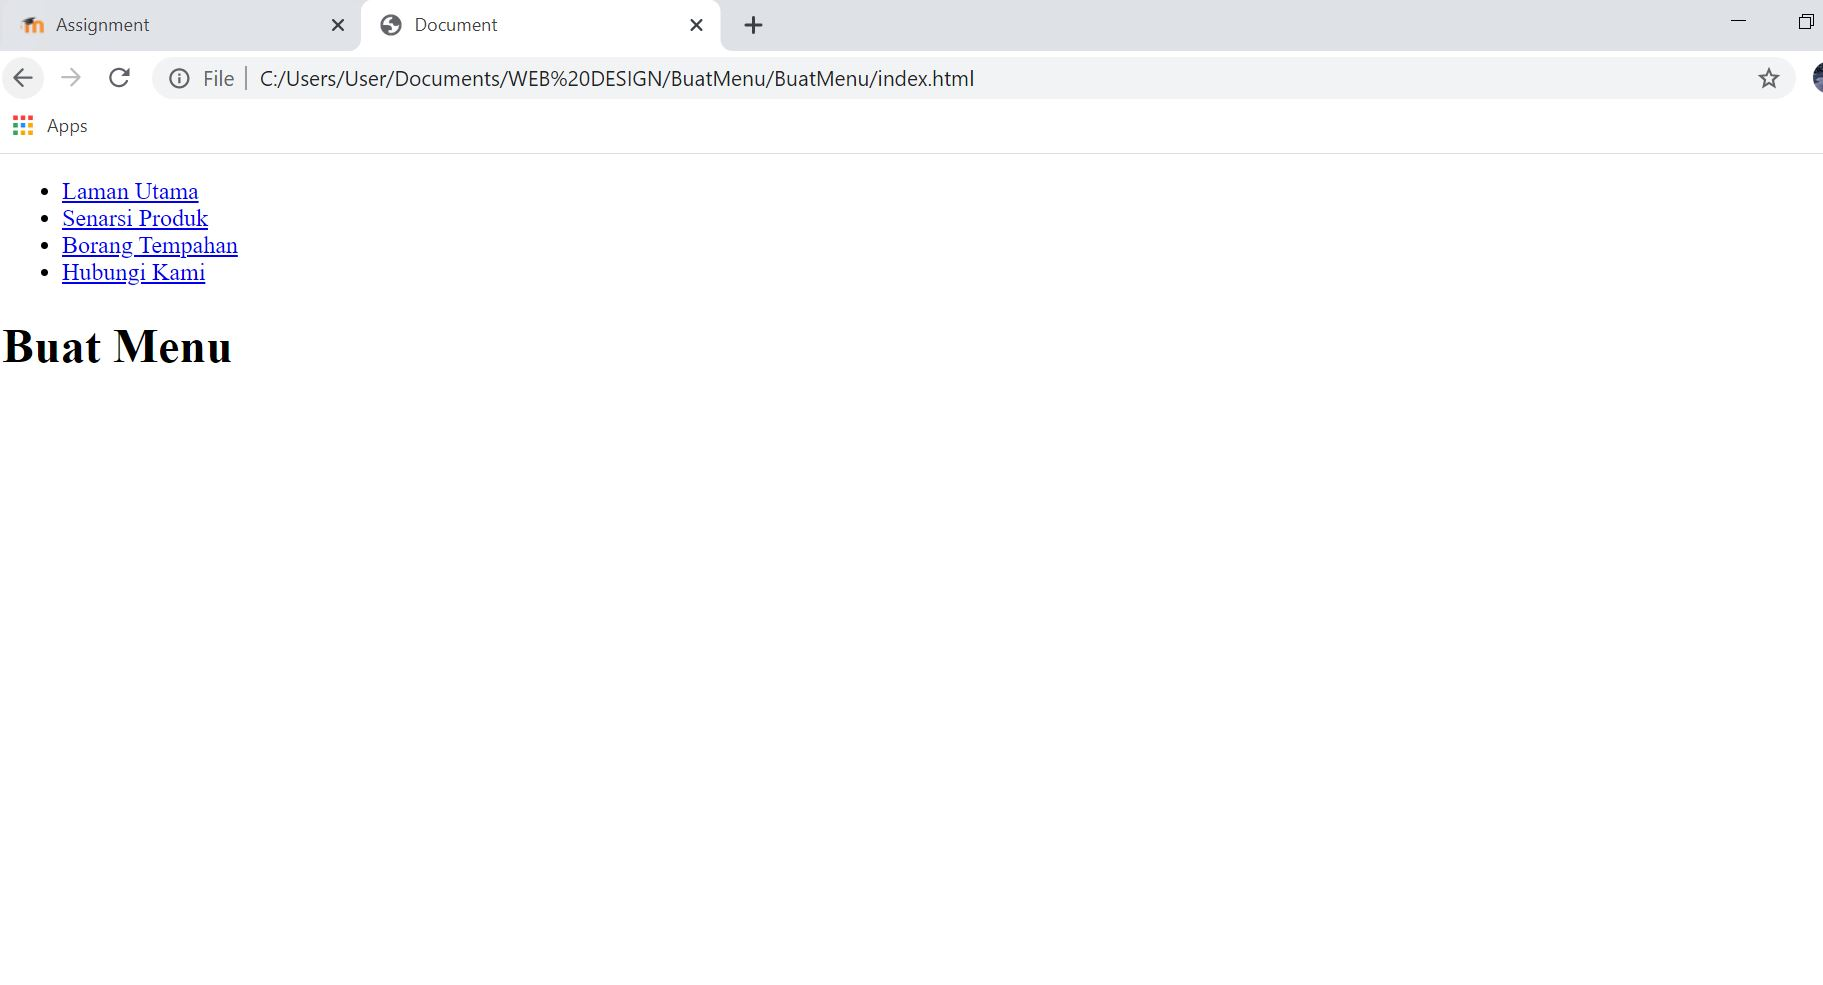
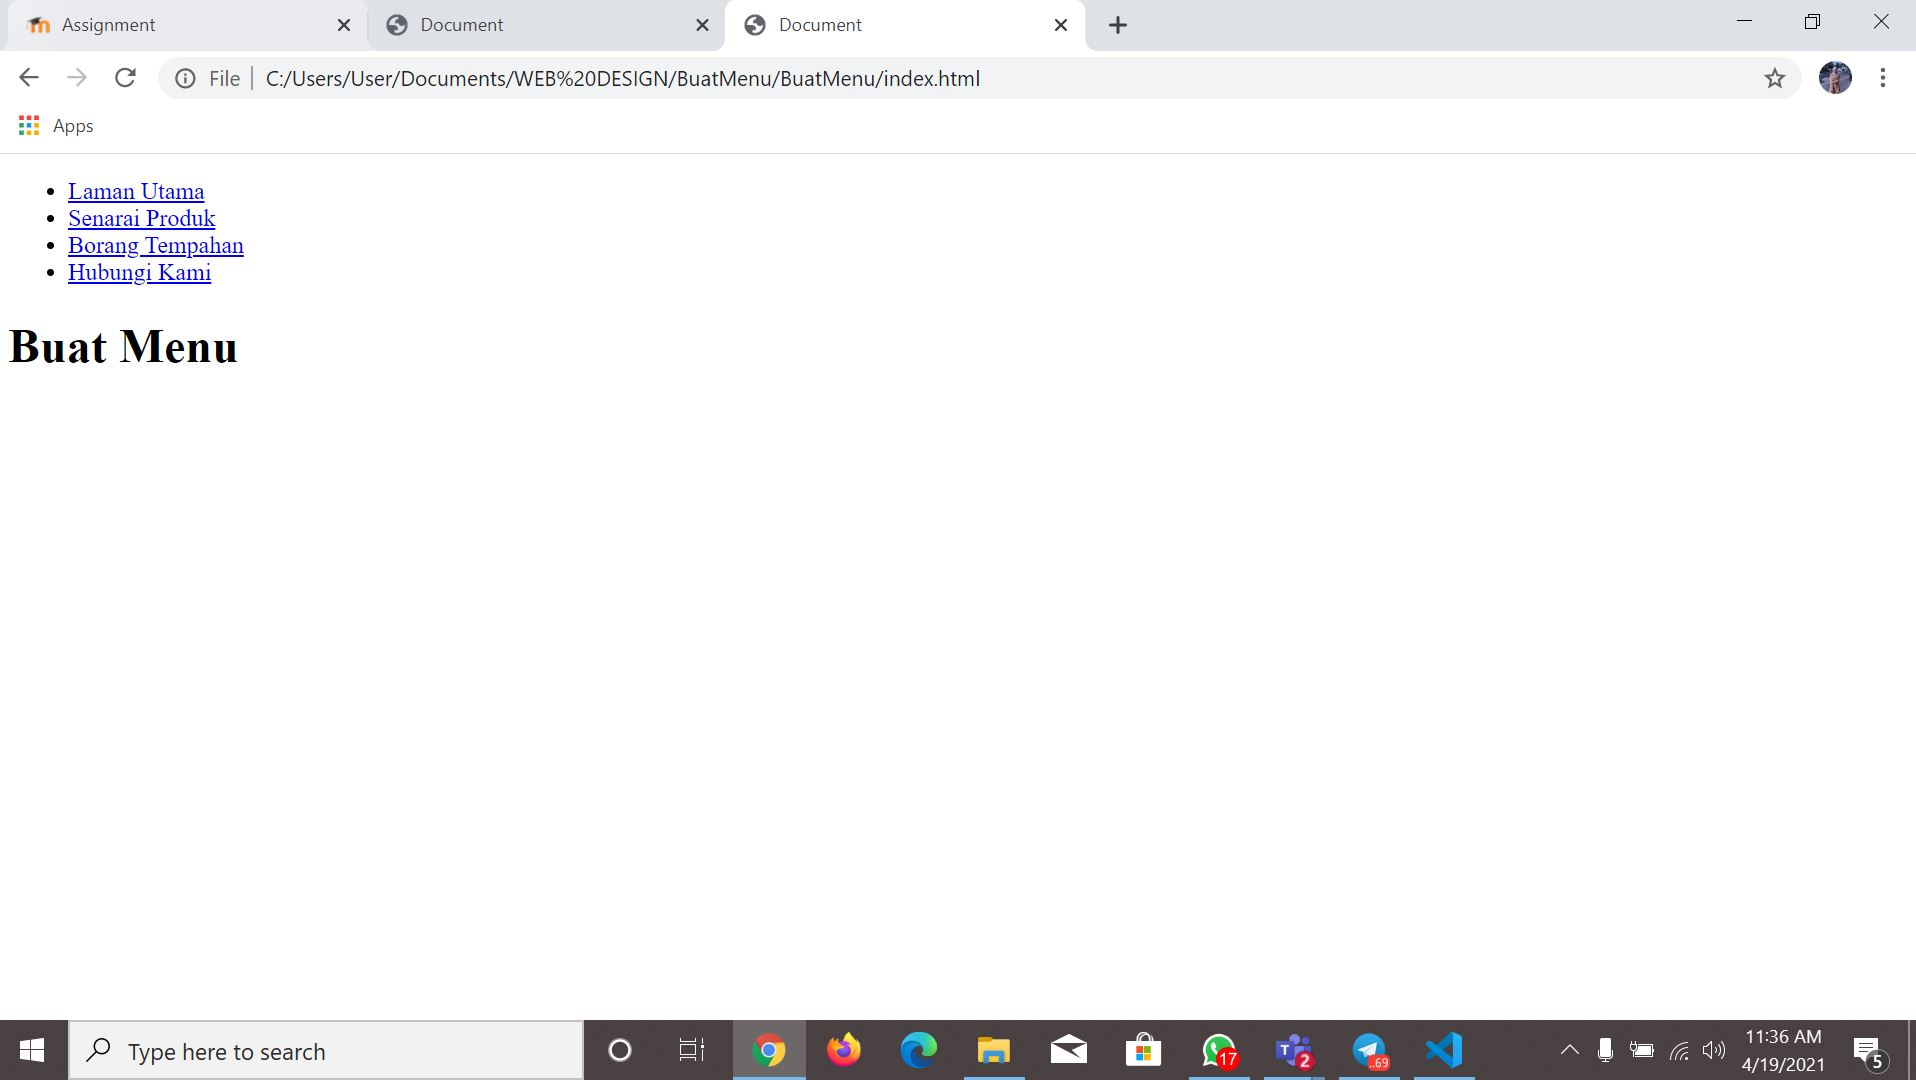
menu tanpa CSS

Changed region(s): [[0.0, 0.0, 1.0, 0.3655], [0.2765, 0.9442, 1.0, 1.0], [0.0, 0.9442, 0.1843, 1.0]]

diff --git a/index.html b/index.html
@@ -11,7 +11,7 @@
     
     <ul>
         <li><a href="default.asp">Laman Utama</a></li>
-        <li><a href="news.asp">Senarsi Produk</a></li>
+        <li><a href="news.asp">Senarai Produk</a></li>
         <li><a href="contact.asp">Borang Tempahan</a></li>
         <li><a href="about.asp">Hubungi Kami</a></li>
       </ul>
